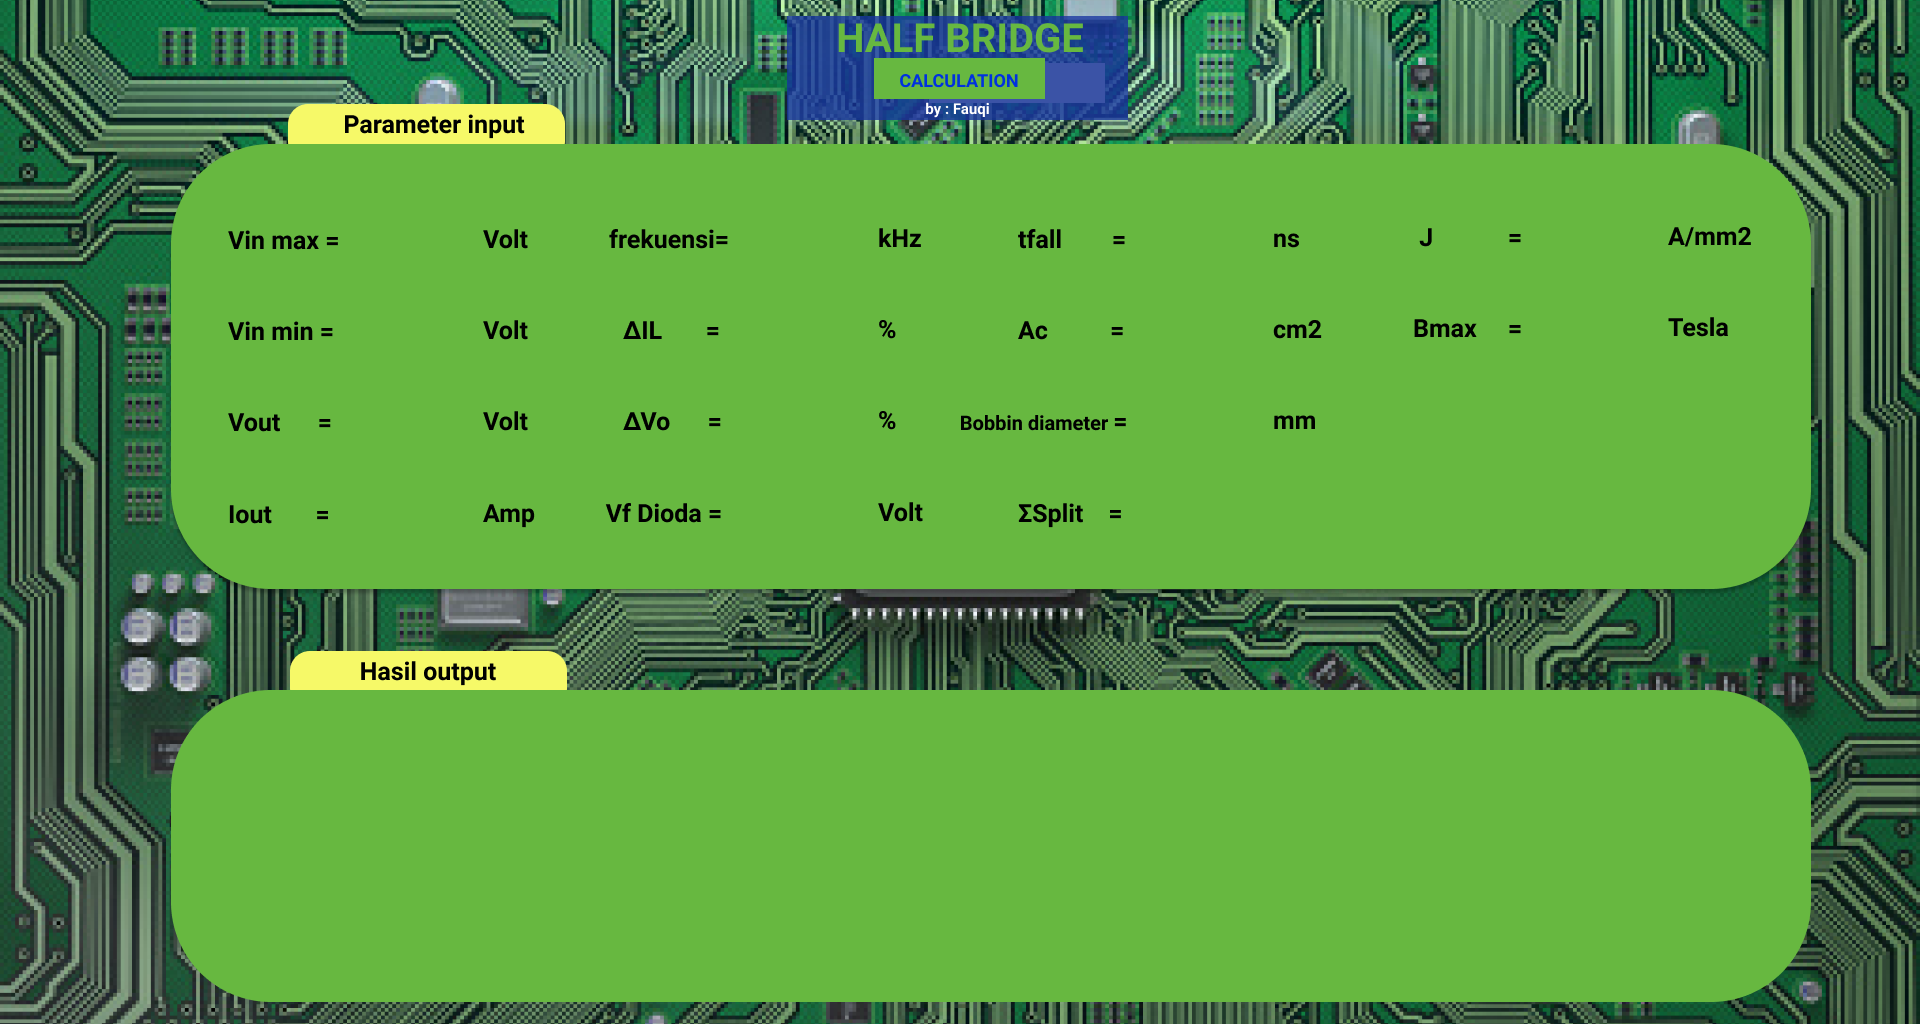
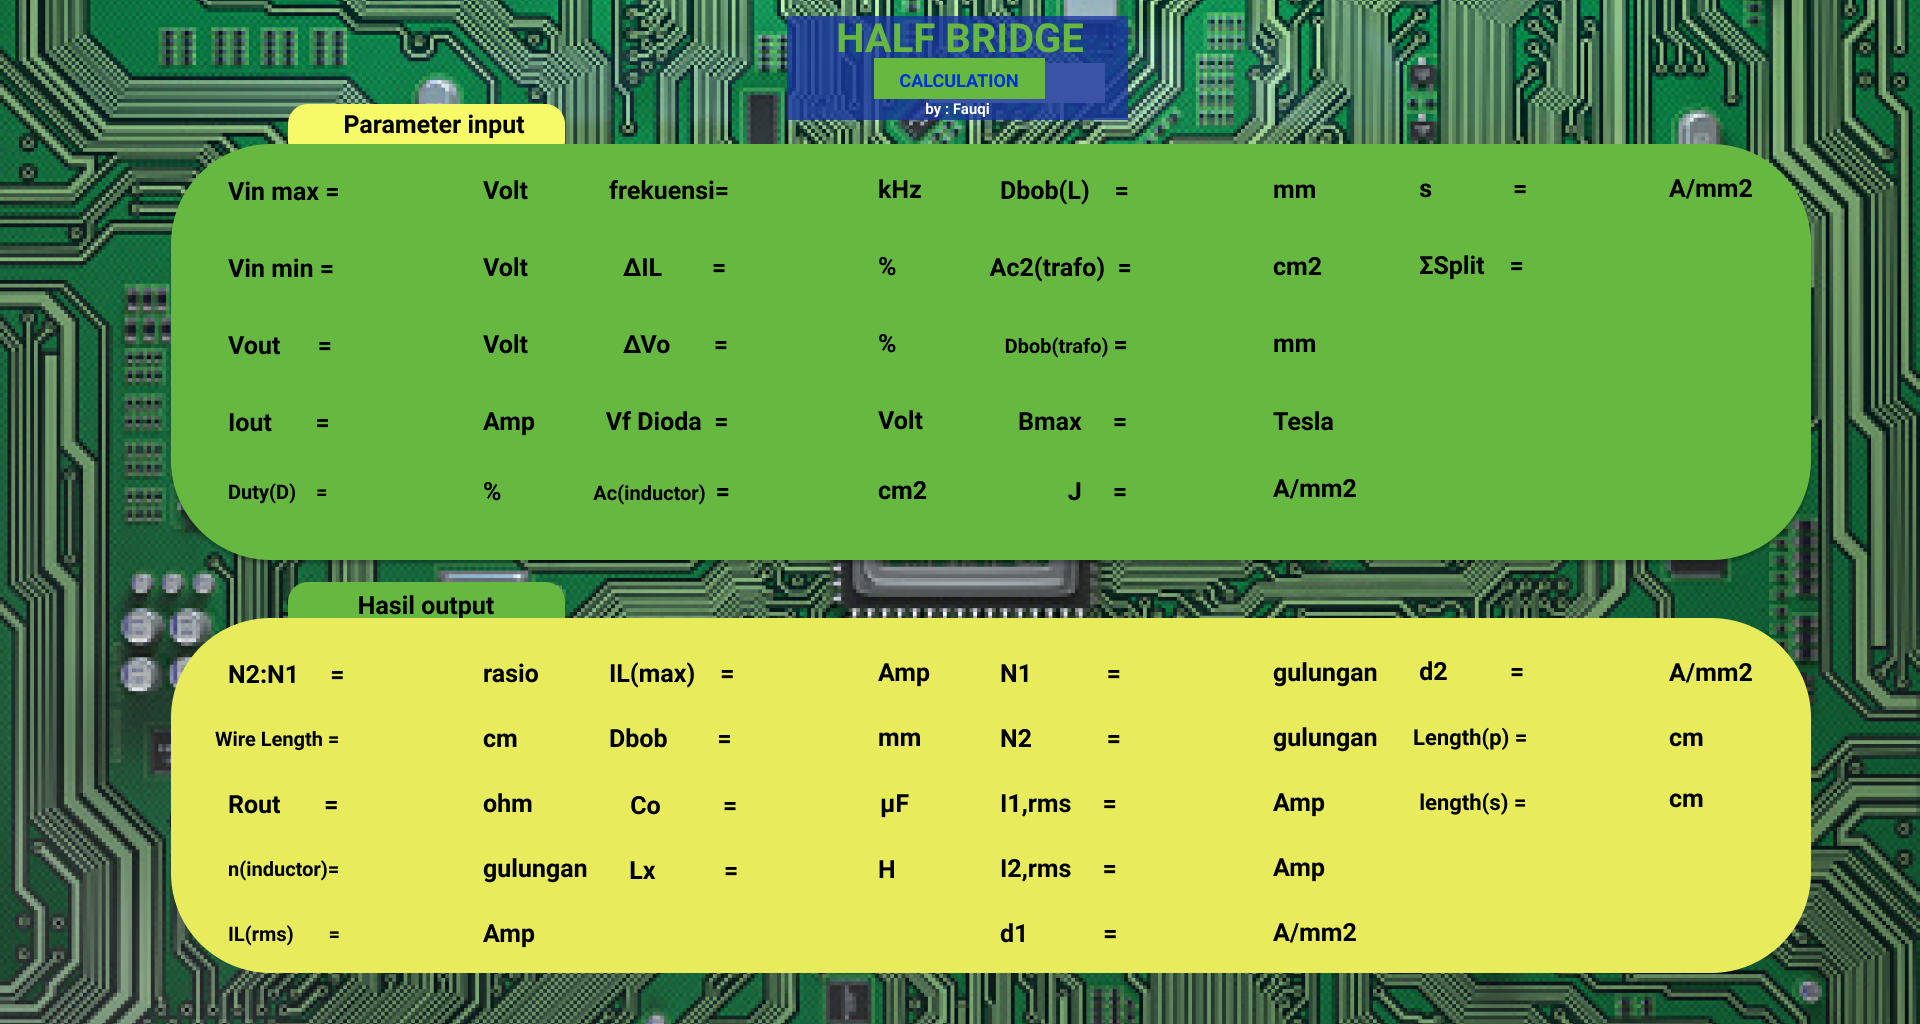
heheehehe

diff --git a/page.py b/page.py
@@ -35,7 +35,7 @@ class page:
         self.sH=SCREENHEIGHT
         self.frame=Frame(self.master,bg="RED")
         self.frame2=Frame(self.master,bg="RED")
-        self.entry =[[0 for x in range(4)]  for x in range(4)]
+        self.entry =[[0 for x in range(5)]  for x in range(5)]
         self.page_init()
         self.showLayar()
         
@@ -66,8 +66,8 @@ class page:
         self.resetBtn=Button(self.frame2,activebackground="#67B840",image=self.resetImage,command=self.reset,borderwidth=0,bg="#67B840")
 
         #self.entry[0][0]=Entry(self.frame2,font=20)
-        for x in range(4):
-            for y in range(4):    
+        for x in range(5):
+            for y in range(5):    
                 self.entry[x][y] = Entry(self.frame2,font=20)
 
 
@@ -89,18 +89,20 @@ class page:
         #elf.entry[0][0].place(x=0.798*self.sW,y=0.299*self.sH,width=self.sW*0.065,height=self.sH*0.044)
         j=0
         k=0
-        offsetH=self.sH*0.2128
+        offsetH=self.sH*0.165
         offsetW=self.sW*0.181
         jarakW=self.sW*0.141
-        jarakH=self.sH*0.0449
+        jarakH=self.sH*0.0292
         entryWidth=self.sW*0.065
         entryHeight=self.sH*0.044
         
-        for j in range(4):
-            for k in range(4):    
+        for j in range(5):
+            for k in range(5):    
                 self.entry[j][k].place(x=offsetW+((k*(entryWidth+jarakW))),y=offsetH+((j*(entryHeight+jarakH))),width=entryWidth,height=entryHeight)
-        self.entry[3][2].place_forget()#kolom,baris
+        self.entry[1][3].place_forget()#kolom,baris
+        self.entry[2][3].place_forget()
         self.entry[3][3].place_forget()
+        self.entry[4][3].place_forget()
         self.master.bind('<Return>',self.enter)
     def enter(self,event):
         self.calculate()
